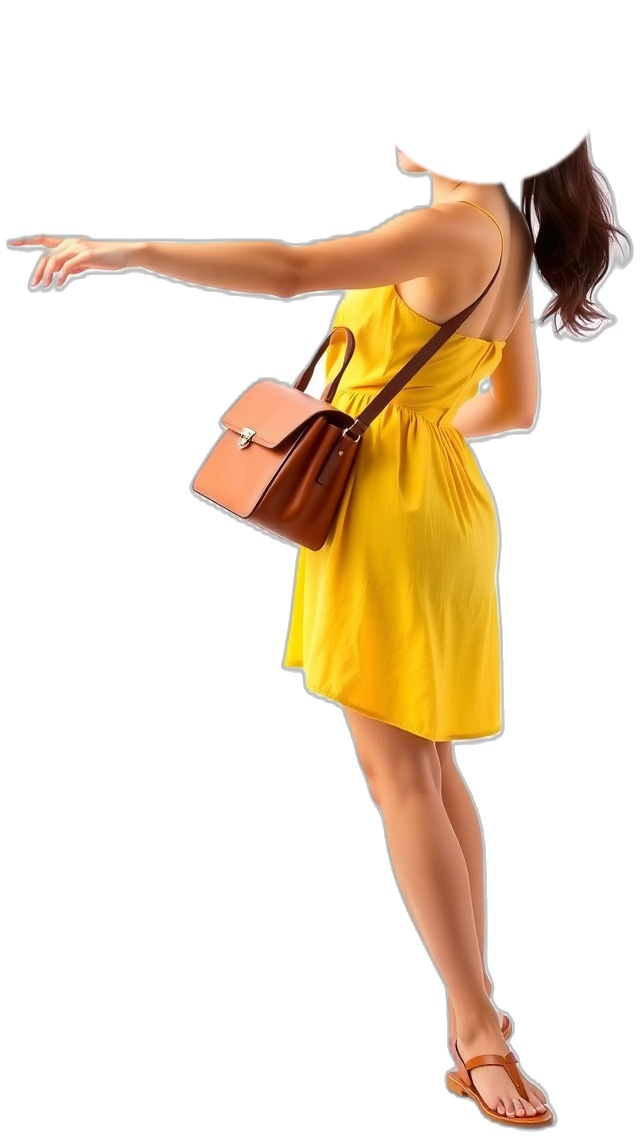
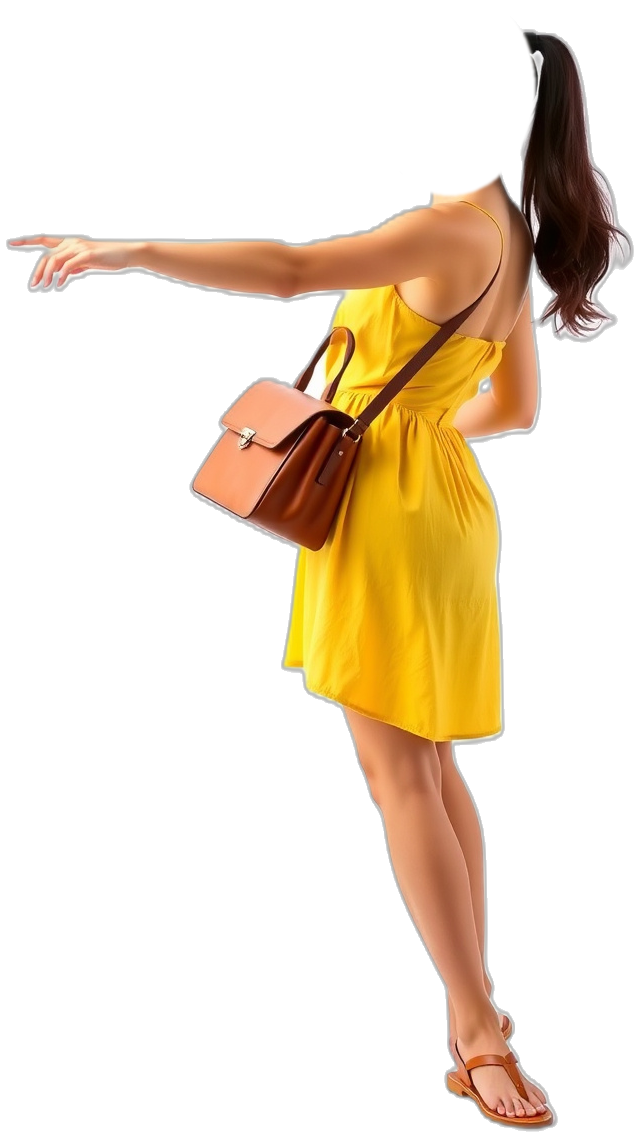
Pins rob: open on the kea; fix the tourists' head sizes
The hook now starts on the kea stripping the car, the gull swipe second.
prep-people.py takes a head_w override so the cartoon head can be sized
to the real head when the erase ellipse is wider (a ponytail): the phone
and reaching tourists' heads were oversized and off their necks.

Claude-Session: https://claude.ai/code/session_01J8o81FrgPeuixM2mLQzCRY

Changed region(s): [[0.8125, 0.0, 0.9375, 0.1538], [0.5938, 0.123, 0.7812, 0.1845]]

diff --git a/src/pins/rob/RobShort.tsx b/src/pins/rob/RobShort.tsx
@@ -95,36 +95,37 @@ const Meter: React.FC<{ k: number }> = ({ k }) => (
 /* ------------------------------------------------------------ the shots */
 
 const shots: Shot[] = [
-  /* HOOK, under the riser. A gull swipes a man's chips… */
+  /* HOOK, under the riser. A kea strips a car… */
   {
     at: 0,
     reframes: false,
-    render: ({ t, u }) => {
-      const swoop = ease(u, 0.25, 0.7);
-      const grabbed = u > 0.62;
-      return (
-        <Cam t={t} z={1.25 - 0.12 * ease(u, 0, 0.9)} y={980}>
-          <Backdrop src={BG.beach} t={t} />
-          <PhotoPerson id="man" t={t} poses={[[-99, BODY["man-chips"]], [0.62, BODY["man-shock"]]]} x={380} y={1880} h={1250} look={MAN}
-            faces={[[-99, "happy"], [0.62, "shocked"]]} gaze={[0.6, -0.3]} />
-          <Actor a={A.gullFly} t={t} x={lerp(1500, 520, swoop) - (grabbed ? (u - 0.62) * 1400 : 0)} y={lerp(250, 1000, swoop) - (grabbed ? (u - 0.62) * 900 : 0)} w={980}
-            rot={-10} bob={0} moods={[[-99, "angry"]]} look={[-0.6, 0.4]} />
-          {grabbed && <Actor a={A.chips} t={t} x={520 - (u - 0.62) * 1400} y={1080 - (u - 0.62) * 900} w={170} rot={-20} bob={0} />}
-        </Cam>
-      );
-    },
-  },
-  /* …a kea strips a car… */
-  {
-    at: c("hook", 2),
-    transition: "whip",
-    reframes: false,
     render: ({ t, u }) => (
-      <Cam t={t} z={1.3 + 0.1 * ease(u, 0, 0.8)} x={560} y={900} shake={10 * bell(u, 0.15, 0.6)}>
+      <Cam t={t} z={1.4 - 0.1 * ease(u, 0, 0.8)} x={560} y={900} shake={10 * bell(u, 0.2, 0.7)}>
         <Backdrop src={BG.carClose} t={t} />
         <Actor a={A.keaTug} t={t} x={540} y={1050} w={1250} rot={-4 + 6 * Math.sin(t * 14)} bob={0} moods={[[-99, "angry"]]} look={[0.3, 0.2]} />
       </Cam>
     ),
+  },
+  /* …a gull swipes a man's chips… */
+  {
+    at: c("hook", 2),
+    transition: "whip",
+    reframes: false,
+    render: ({ t, u }) => {
+      const grab = c("hook", 2) + 0.45;
+      const swoop = ease(u, 0.08, 0.45);
+      const g = Math.max(0, t - grab);
+      return (
+        <Cam t={t} z={1.25 - 0.1 * ease(u, 0, 0.9)} y={980}>
+          <Backdrop src={BG.beach} t={t} />
+          <PhotoPerson id="man" t={t} poses={[[-99, BODY["man-chips"]], [grab, BODY["man-shock"]]]} x={380} y={1880} h={1250} look={MAN}
+            faces={[[-99, "happy"], [grab, "shocked"]]} gaze={[0.6, -0.3]} />
+          <Actor a={A.gullFly} t={t} x={lerp(1500, 520, swoop) - g * 1400} y={lerp(250, 1000, swoop) - g * 900} w={980}
+            rot={-10} bob={0} moods={[[-99, "angry"]]} look={[-0.6, 0.4]} />
+          {t > grab && <Actor a={A.chips} t={t} x={520 - g * 1400} y={1080 - g * 900} w={170} rot={-20} bob={0} />}
+        </Cam>
+      );
+    },
   },
   /* …a monkey makes off with a tourist's phone… */
   {

diff --git a/scripts/prep-people.py b/scripts/prep-people.py
@@ -8,6 +8,8 @@ people.json: {"out": "public/images/pins-people", "poses": [
      "crop": [x0, y0, x1, y1],          # optional: one figure out of a sheet (px)
      "neck": [x, y],                     # optional override, px in the source image
      "head": [cx, cy, rx, ry],           # optional override of the head ellipse, px in the source
+     "head_w": 110,                      # optional: the real head's width (px, source) when the erase
+                                         #   ellipse is wider than the head (a ponytail, raised hands)
      "turn": 0.3, "tilt": 0,             # which way the body faces; its head angle
      "model": "u2net"}                   # optional: rembg model for poses holding a prop
 ]}
@@ -107,7 +109,7 @@ def main():
         cut.save(os.path.join(out, p["id"] + ".png"))
         index[p["id"]] = {"file": p["id"] + ".png", "w": W, "h": H,
                           "neck": [round(nx / W, 4), round(ny / H, 4)],
-                          "headW": round(rx * 2 / W, 4),
+                          "headW": round((p["head_w"] if "head_w" in p else rx * 2) / W, 4),
                           "turn": p.get("turn", 0), "tilt": p.get("tilt", 0)}
         print(f"{p['id']:16s} {W}x{H} neck=({nx:.0f},{ny:.0f}) head w={rx*2:.0f}")
     json.dump(index, open(os.path.join(out, "poses.json"), "w"), indent=1)
